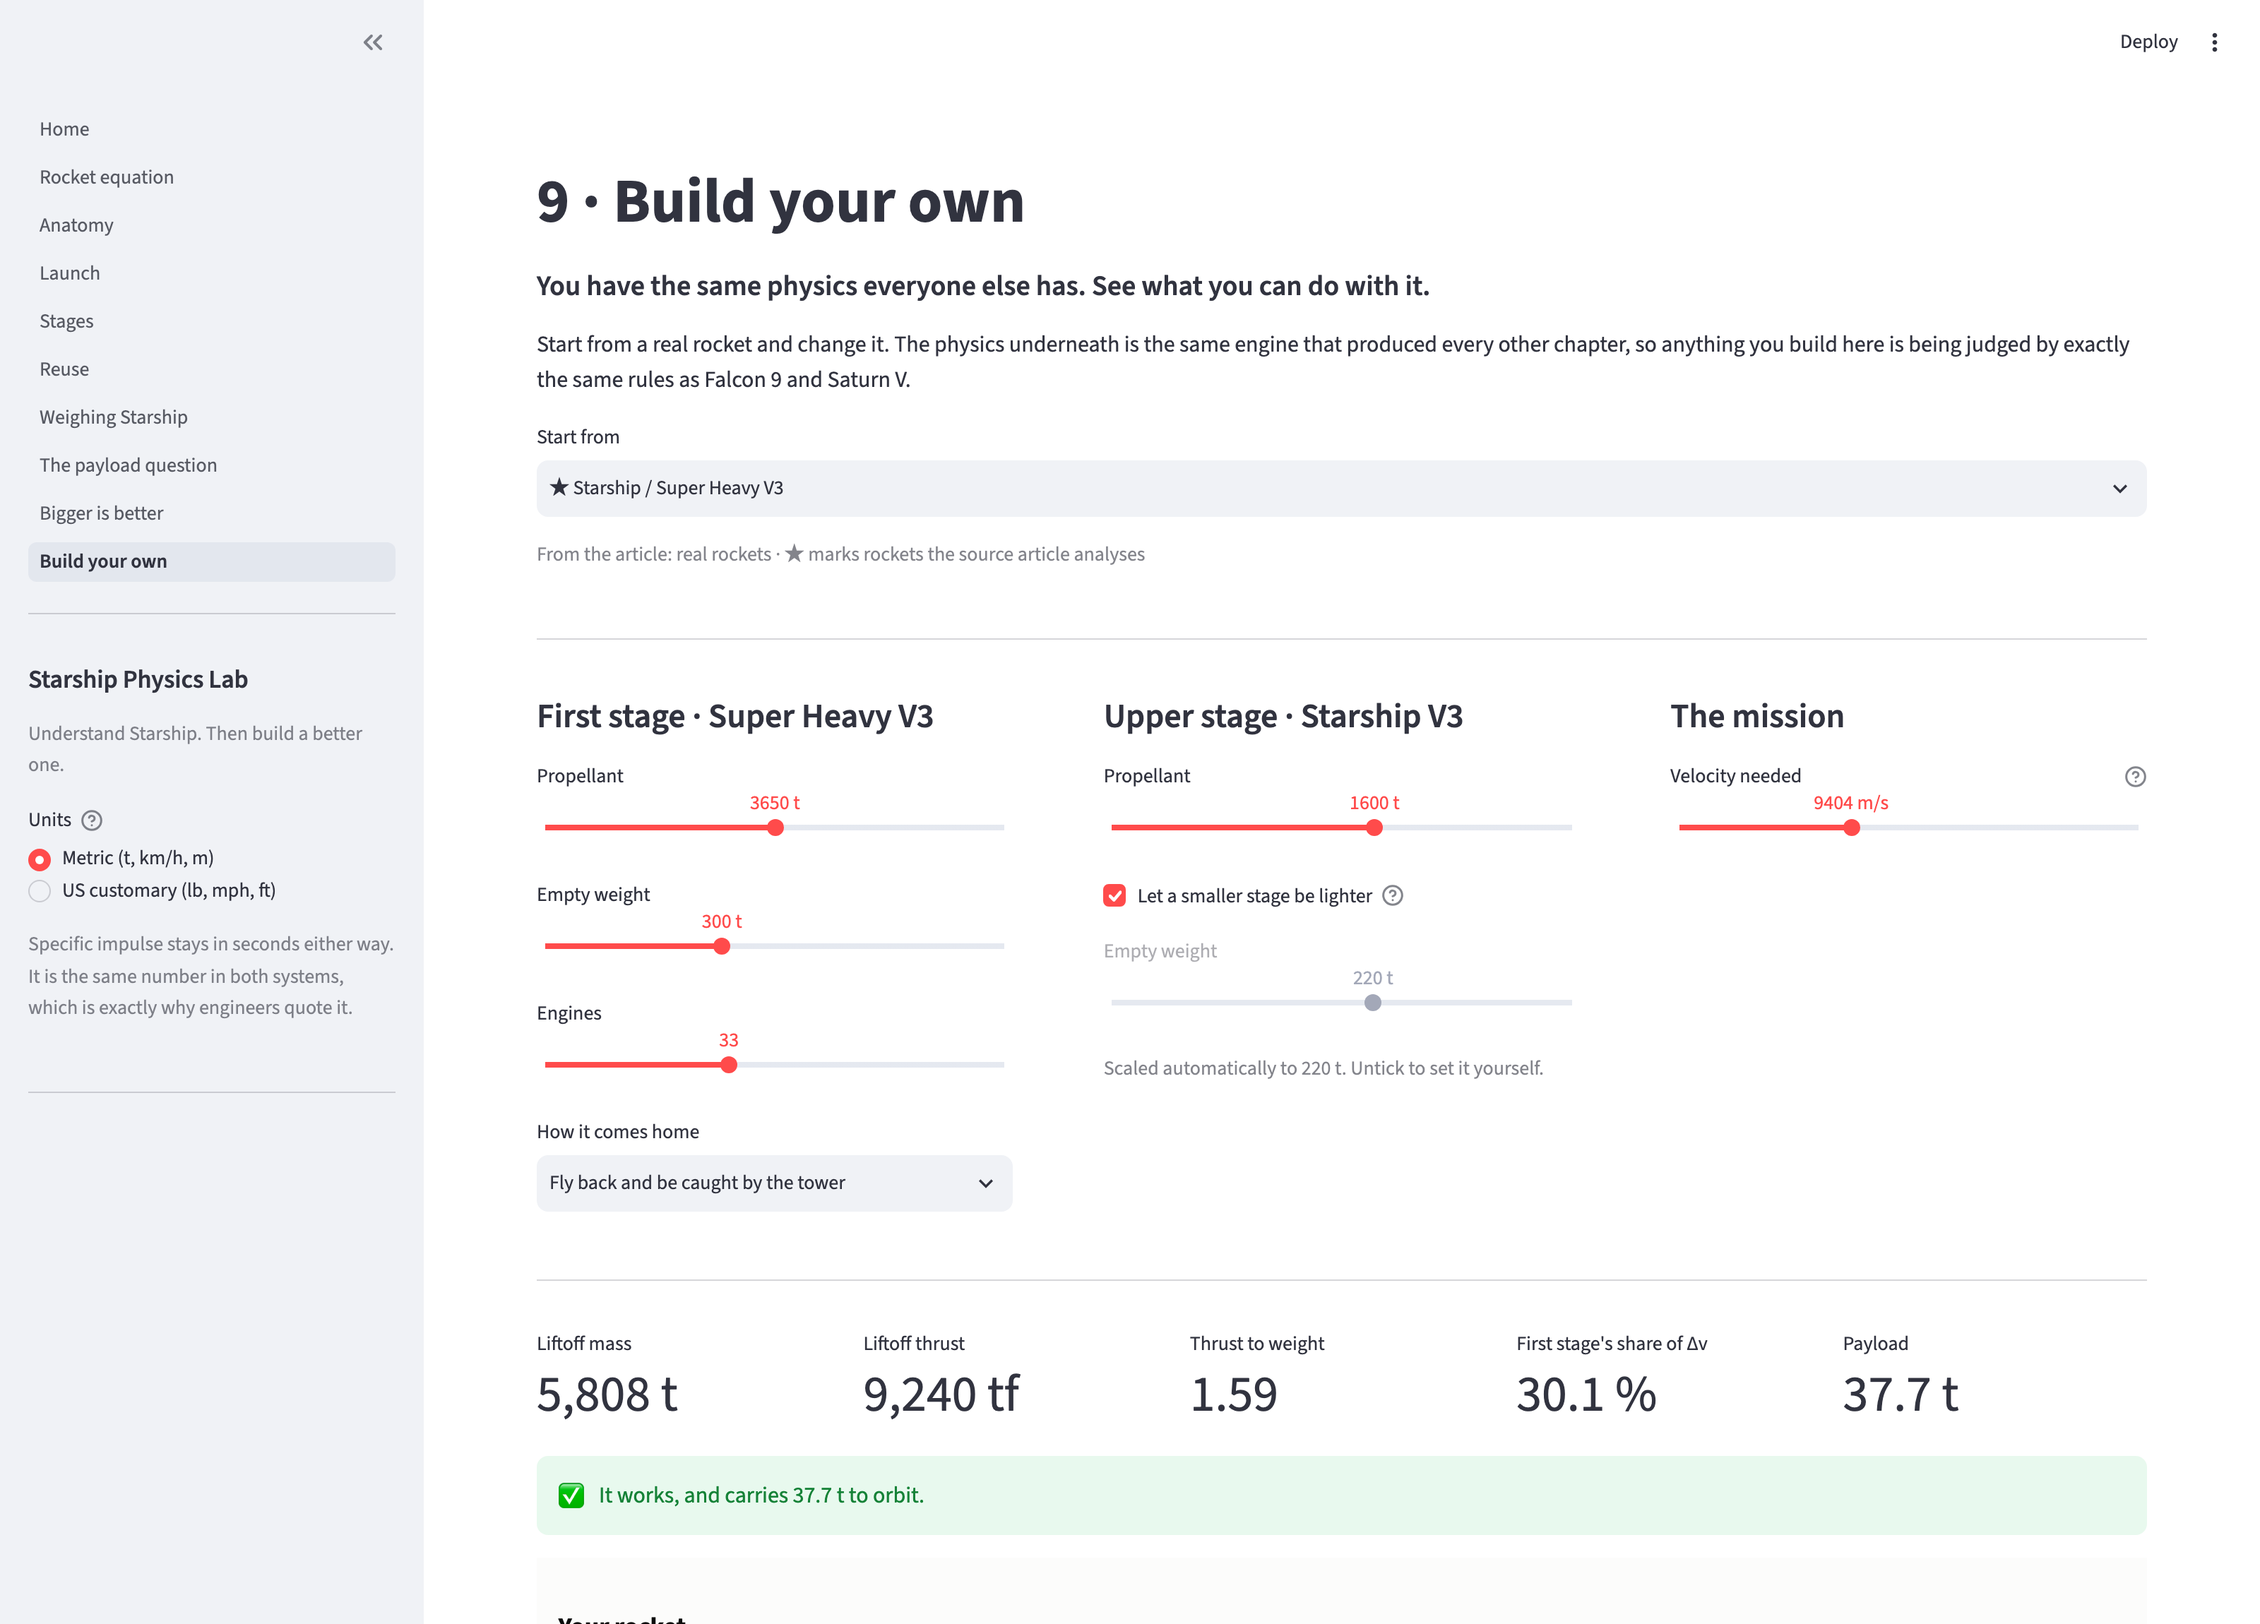
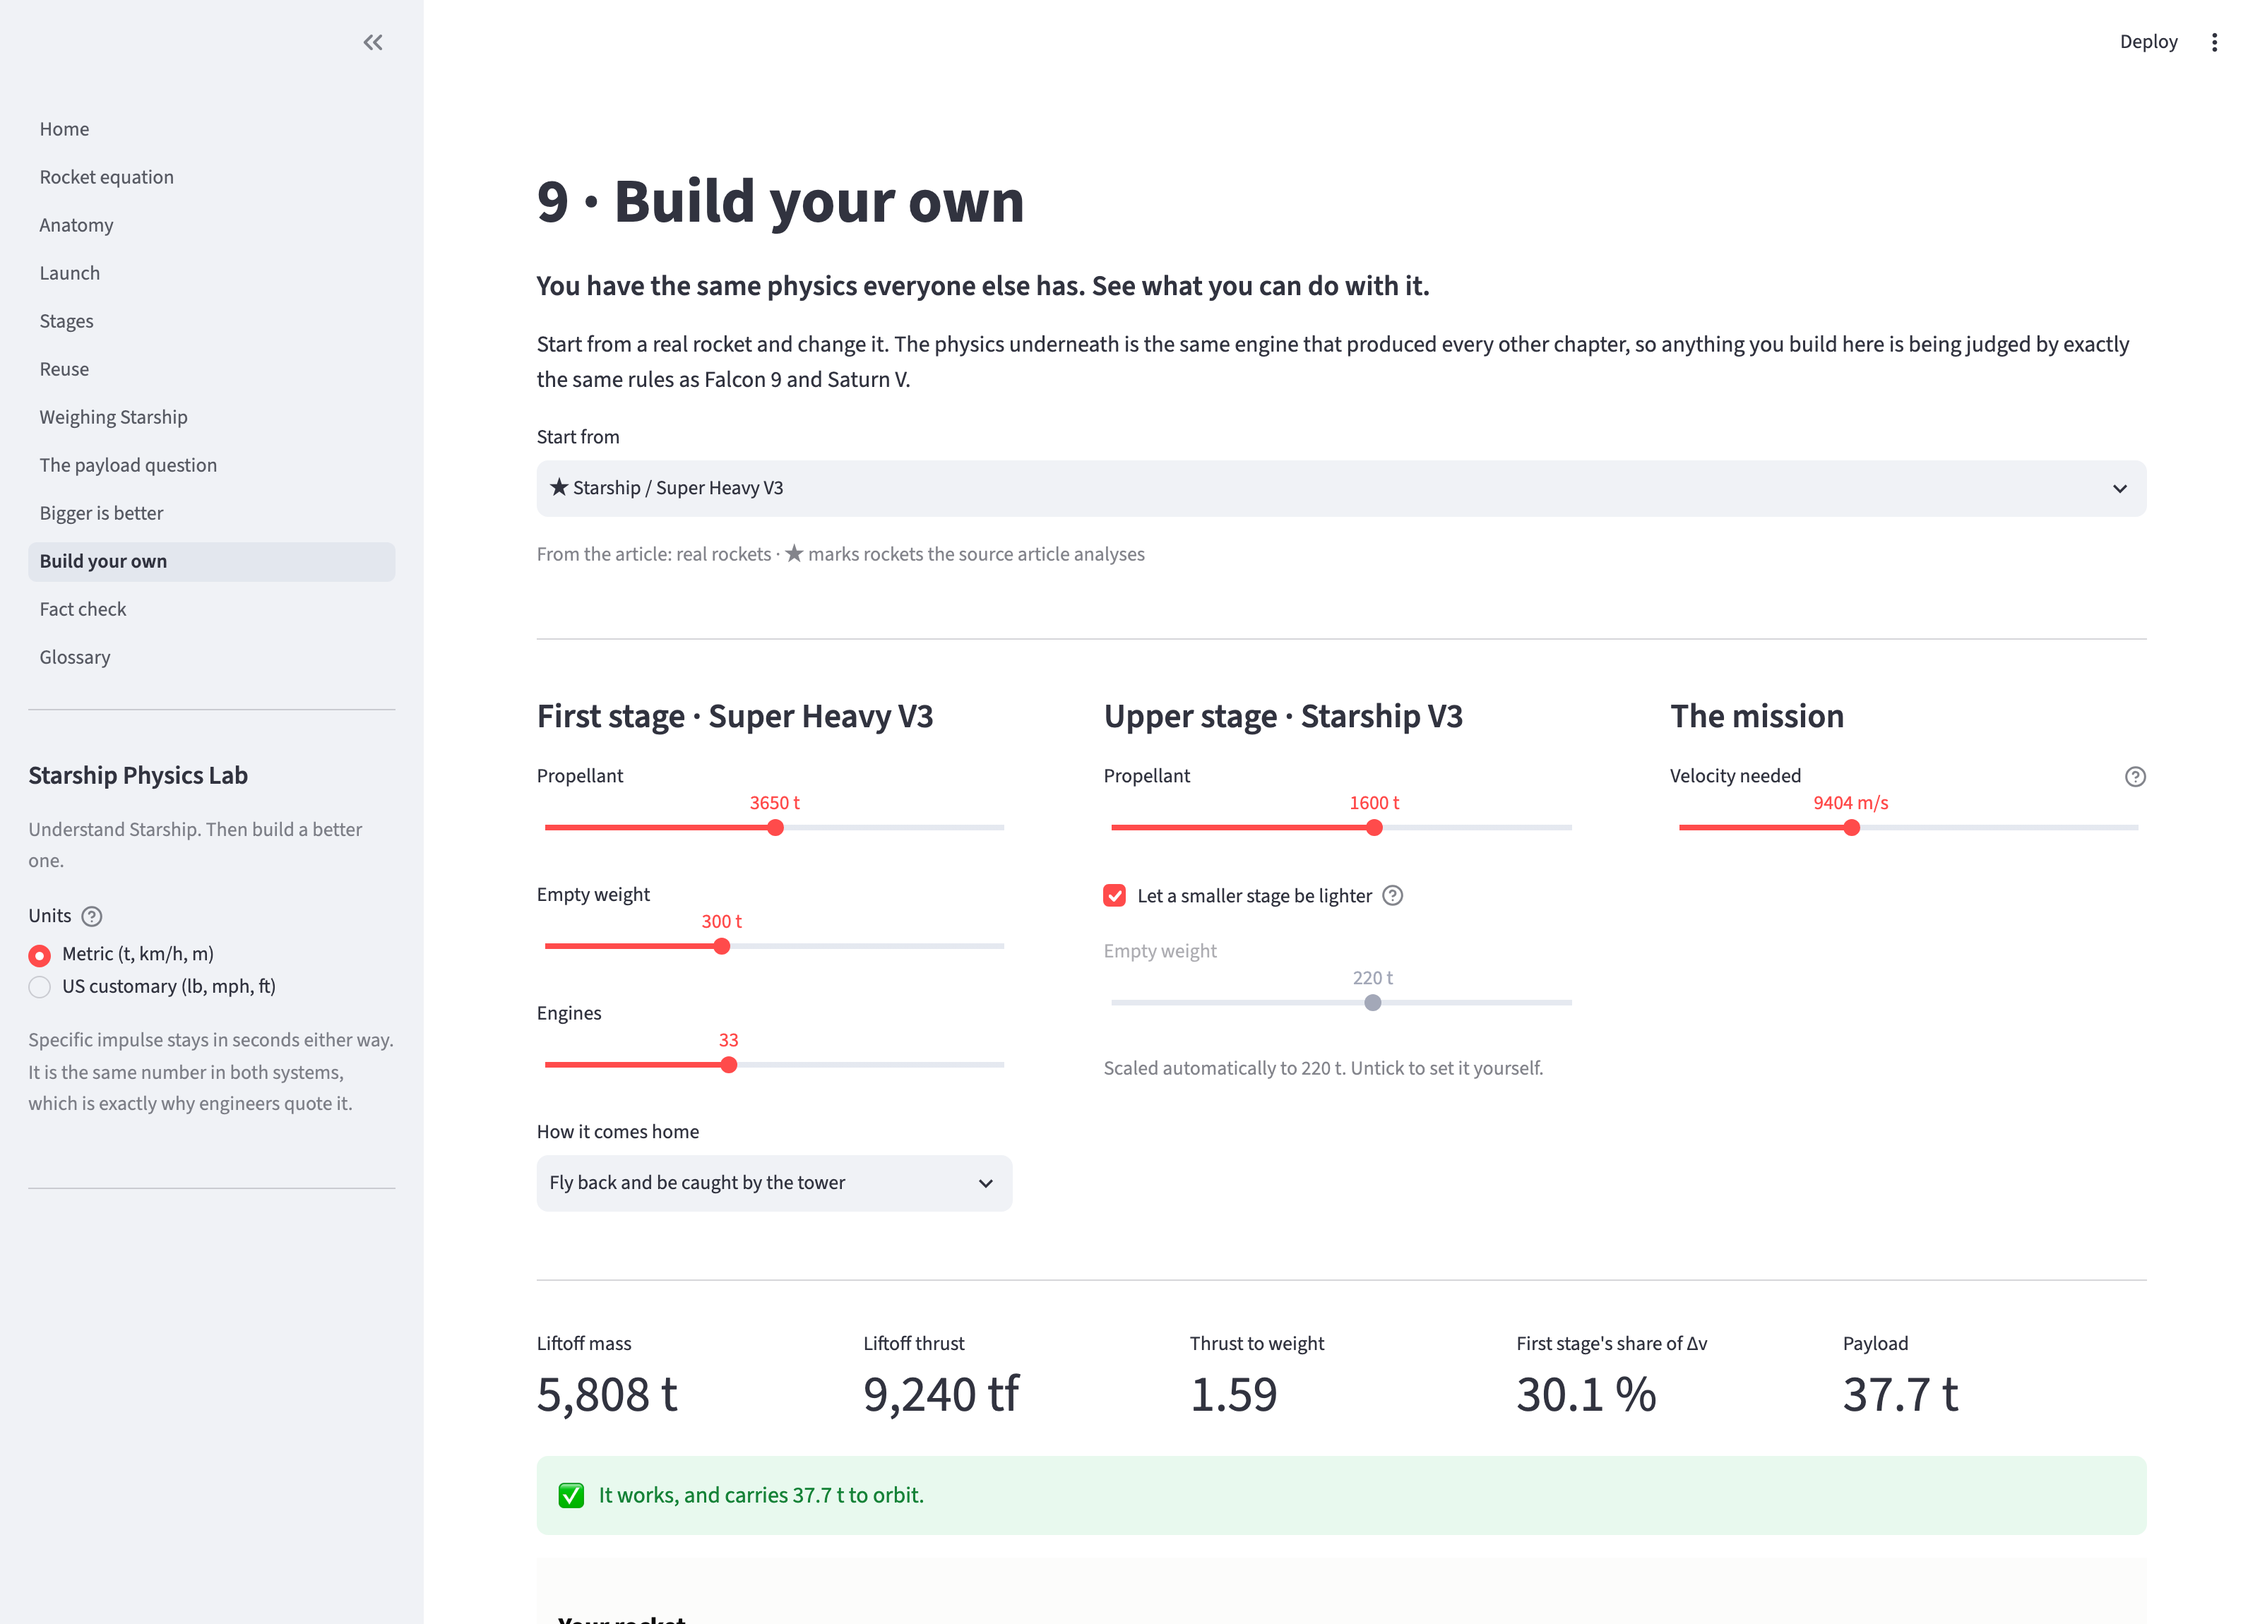
docs: refresh screenshots and mark the plan complete

Changed region(s): [[0.0, 0.4013, 0.1562, 0.6791], [0.125, 0.5557, 0.1562, 0.5865]]

diff --git a/docs/plan.md b/docs/plan.md
@@ -257,9 +257,20 @@ Free-form builder with validation, scoring and comparison against the library.
 
 Building it caught a teaching bug worth recording. Shrinking a stage while holding its dry mass fixed makes the rocket *worse*, so the obvious instruction, "cut the upper stage in half", taught the opposite of the truth. A smaller stage is genuinely a lighter one, so the sandbox scales dry mass with propellant by default and offers a checkbox to turn that off, which turns the trap into the lesson. Two tests hold both directions in place.
 
-### M8: Polish
+### M8: Polish — DONE
 Fact-check page, glossary complete, guided tour, shareable URL state, responsive layout, light and dark themes, accessibility pass on the palette.
-**Done when:** an untrained reader can complete the guided tour without asking a question.
+**Done:** eleven chapters with a guided tour on the landing page, a searchable glossary whose definitions never use the word being defined, a fact-check chapter that recomputes the article's numbers live rather than quoting them, shareable links, and chart invariants tested in both light and dark rather than checked by eye.
+
+Two defects surfaced here that would not have shown up any other way. Writing the URL on every run left the address bar a step behind the control; and the slider had no stable key, so Streamlit rebuilt it whenever the URL-derived default moved and silently discarded what the reader had just set.
+
+### Beyond the plan
+
+The plan is finished. Sensible next directions, in rough order of value:
+
+1. **Flight 14.** Expected within weeks. Fill in `data/flights.yaml` and the case study gains its first real measurement. No code change should be needed; if one is, the abstraction is wrong.
+2. **More rockets.** Electron, Vulcan, SLS, Soyuz, Falcon Heavy. Pure data entry against the calibration test.
+3. **A proper parallel-staging model**, which would let Ariane 64 and the Space Shuttle come off the excused list.
+4. **Translate to German**, which the content module was structured for from the start.
 
 Milestones M0 to M2 are prerequisites for everything. M3 to M5 are the core product. M6 to M8 can be reordered or trimmed if scope pressure appears; the physics core cannot.
 

diff --git a/README.md b/README.md
@@ -71,6 +71,8 @@ Each investigation lives in [`studies/`](studies/), one folder holding the scrip
 
 ## Status
 
+Every milestone in [docs/plan.md](docs/plan.md) is complete.
+
 | | |
 |---|---|
 | done | **M0-M2** Scaffold, physics core, rocket library |
@@ -82,7 +84,7 @@ Each investigation lives in [`studies/`](studies/), one folder holding the scrip
 | done | **M8a** Fact check and glossary chapters |
 | done | **M8b** Guided tour, shareable links, dark mode locked by tests |
 
-249 tests, `ruff` and `mypy --strict` clean, all green in CI before anything deploys. Full plan in [docs/plan.md](docs/plan.md).
+250 tests, `ruff` and `mypy --strict` clean, all green in CI before anything deploys. Full plan in [docs/plan.md](docs/plan.md).
 
 ## How it runs in a browser
 
@@ -110,7 +112,7 @@ Two rules that do not bend:
 
 ```sh
 uv sync                                          # install
-uv run pytest                                    # 249 tests
+uv run pytest                                    # 250 tests
 uv run ruff check . && uv run mypy               # lint and types
 uv run streamlit run app/Home.py                 # the app, locally
 
